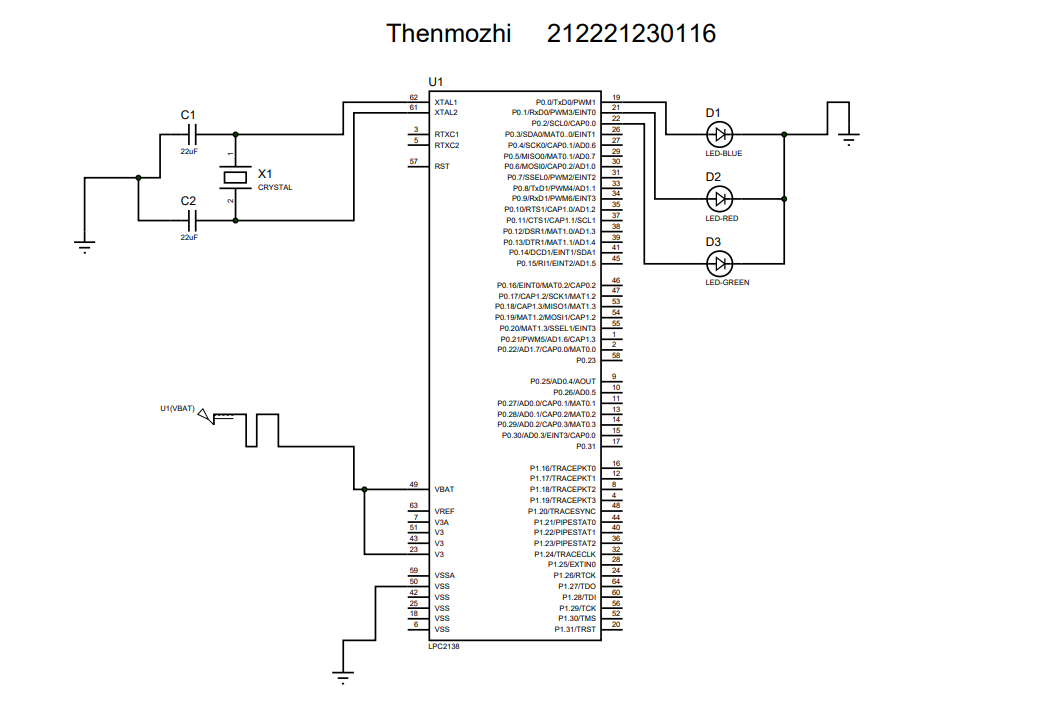
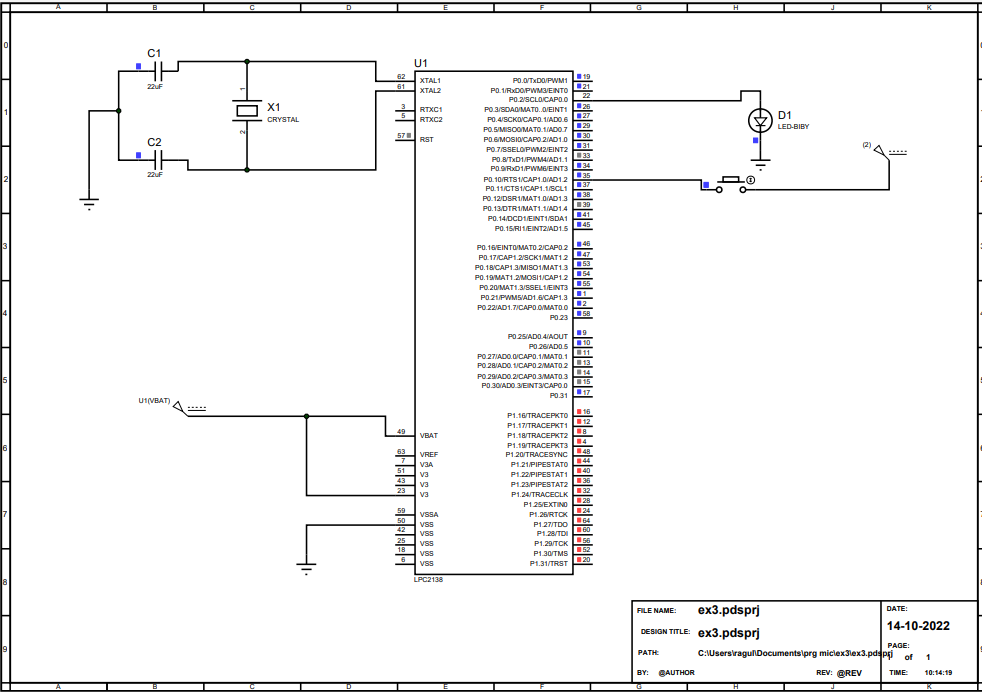
Add files via upload

diff --git a/README.md b/README.md
@@ -1,12 +1,16 @@
-# EXPERIMENT--02-Interfacing-a-Digital-output-LED-to-LPC2148-ARM-7-Microcontroller-
-## Interfacing a Digital output (LED) to LPC2148 ARM 7 Microcontroller 
+# Interfacing-a-Digital-INPUT-push-button-to-LPC2148-ARM-7-Microcontroller-
+Name : Easwar. J
+Roll no 212221230024
+Date of experiment :
 
-## Aim: 
-To Interface a Digital output (LED) to LPC2148 ARM 7 and write a blink code 
-## Components required:
-Proteus ISIS professional suite, Kiel μ vision 5 Development environment :
-## Theory :
+Ex. No. : 3
+Date: 
+ 
+### Aim: To Interface a Digital input (pushbutton ) to LPC2148 ARM 7 and write a code to switch on and of an LED 
+Components required: Proteus ISIS professional suite, Kiel μ vision 5 Development environment 
+### Theory 
 The full form of an ARM is an advanced reduced instruction set computer (RISC) machine, and it is a 32-bit processor architecture expanded by ARM holdings. The applications of an ARM processor include several microcontrollers as well as processors. The architecture of an ARM processor was licensed by many corporations for designing ARM processor-based SoC products and CPUs. This allows the corporations to manufacture their products using ARM architecture. Likewise, all main semiconductor companies will make ARM-based SOCs such as Samsung, Atmel, TI etc.
+
 
 What is an ARM7 Processor?
 ARM7 processor is commonly used in embedded system applications. Also, it is a balance among classic as well as new-Cortex sequence. This processor is tremendous in finding the resources existing on the internet with excellence documentation offered by NXP Semiconductors. It suits completely for an apprentice to obtain in detail hardware & software design implementation.
@@ -31,15 +35,14 @@ The main features of LPC2148 include the following.
 •	The incorporated oscillator on the chip will work by an exterior crystal that ranges from 1 MHz-25 MHz
 •	The modes for power-conserving mainly comprise idle & power down.
 •	For extra power optimization, there are individual enable or disable of peripheral functions and peripheral CLK scaling.
- 
-![image](https://user-images.githubusercontent.com/36288975/189275248-cf9f4001-be11-4773-ba86-517bec062fa5.png)
+ ![image](https://user-images.githubusercontent.com/36288975/193398005-6e1257a9-16ae-43f5-9f09-33bb21ed25b9.png)
 
 
-## Procedure:
+
+### Procedure:
 For creation of project on    Kiel μ vision 5 Development environment (LPC21 XX/48/38)
 1.	Click on the menu Project — New µVision Project creates a new project. Select an empty folder and enter the project name, for example Project1. It is good practice to use a separate folder for each project.
 2.	Next, the dialog Select Device for Target opens.
-![image](https://user-images.githubusercontent.com/36288975/189275266-1d35fbc4-cdb4-49b2-a7ef-4991dc6f546f.png)
 
  
 
@@ -53,109 +56,105 @@ Select the device database. Default is Software Packs. You can have various loca
 
 For creating the simulation environment in Proteus suite 
 Starting New Design
+![image](https://user-images.githubusercontent.com/36288975/193398020-d0963a16-4349-4979-87d7-4c9dc11e2346.png)
+
 Step 1: Open ISIS software and select New design in  File menu
- ![image](https://user-images.githubusercontent.com/36288975/189275283-128a9e18-c1b4-4725-90fc-086361f0b0f1.png)
+ ![image](https://user-images.githubusercontent.com/36288975/193398023-cb8690cf-914a-47e3-8901-c8db3e4cd223.png)
 
 Figure -02 Proteus File Menu
 
  Step 2: A dialogue box appears to save the current design. However, we are creating a new design file so you can click Yes or No depending on the content of the present file. Then a Pop-Up appears asking to select the template. It is similar to selecting the paper size while printing. For now select default or according to the layout size of the circuit.
- ![image](https://user-images.githubusercontent.com/36288975/189275292-833e565c-6583-4667-8aff-376bd8028ee3.png)
+ ![image](https://user-images.githubusercontent.com/36288975/193398027-fd5ae82c-341e-4ed9-aaa4-6bf7574c1a39.png)
 
   Figure -03 Proteus Default Template Select
  
 Step 3:An untitled design sheet will be opened, save it according to your wish,it is better to create a new folder for every layout as it generates other files supporting your design. However,it is not mandatory.
-
-![image](https://user-images.githubusercontent.com/36288975/189275301-c4a11767-fe44-4bc0-8d8a-89022825f3cd.png)
-
+![image](https://user-images.githubusercontent.com/36288975/193398031-03ecd6a5-d9b1-4a60-9dee-009c17a3f5dd.png)
+  
   Figure -04 Proteus Design Sheet
  
 Step 4:To Select components, Click on the component mode button.
- ![image](https://user-images.githubusercontent.com/36288975/189275318-5c6e5521-cf09-441d-912f-7bcebdcb8189.png)
+ ![image](https://user-images.githubusercontent.com/36288975/193398044-5e0d1fe6-1d2b-4b54-9c54-f2904b234343.png)
 
 Figure -05 Component Mode
 Step 5:Click On Pick from Libraries. It shows the categories of components available and a search option to enter the part name.
- 
- ![image](https://user-images.githubusercontent.com/36288975/189275326-3eea00d3-6ea3-40e6-a5b2-97d80db0f1aa.png)
+ ![image](https://user-images.githubusercontent.com/36288975/193398047-f1d5f143-7980-45de-99f2-30b3c4bc04d6.png)
 
   Figure -06 Pick from Libraries
 
 Step 6: Select the components from categories or type the part name in Keywords text box.
  Place all the required components and route the wires i.e, make connections.
 Either selection mode above the component mode or component mode allows to connect through wires. Left click from one terminal to other to make connection. Double right-click on the connected wire or the component to remove connection or the component respectively.
- 
- ![image](https://user-images.githubusercontent.com/36288975/189275342-2365f361-05d0-4fc0-8b44-3934b8b03ea7.png)
+ ![image](https://user-images.githubusercontent.com/36288975/193398050-d6d28800-0c5b-4f5c-a77c-227f3336a125.png)
 
  Figure -07 Component Properties Selection
 Double click on the component to edit the properties of the components and click on Ok.
 Step 8: Select ARM microcontroller form the library – pick part 
-![image](https://user-images.githubusercontent.com/36288975/189275370-90534a4c-8524-4931-9978-291200f0fd2e.png)
-
- 
+ ![image](https://user-images.githubusercontent.com/36288975/193398055-587ebd36-4b82-4eaf-837c-f94c3cf2d071.png)
+  
 Figure -08 LPC2138/48 selection
 Step 7:
 
 After making necessary connections click on debug from 
-![image](https://user-images.githubusercontent.com/36288975/189275403-c1506ad6-7795-40f9-b878-9b83e12263b9.png)
-
  Figure -09 Keywords Textbox
 Example shows selection of push button. Select the components accordingly.
+ ![image](https://user-images.githubusercontent.com/36288975/193398058-2519b9d0-a2ca-421f-957d-7507fc7791b8.png)
+
+ Figure -09 Push Button Selection
+Step 8: The selected components will appear in the devices list. Select the component and place it in the design sheet by left-click., post which select all the associated components as shown in the circuit diagram below 
+![image](https://user-images.githubusercontent.com/36288975/193398065-c12b4984-db8e-40cc-890d-221db1c35b0d.png)
+
  
- Step 8: The selected components will appear in the devices list. Select the component and place it in the design sheet by left-click., post which select all the associated components as shown in the circuit diagram below 
-
- ![image](https://user-images.githubusercontent.com/36288975/189275426-09eb6d0d-aab0-4d8a-8ef8-31288fbfe2a1.png)
-![image](https://user-images.githubusercontent.com/36288975/189275464-1074d010-f106-4615-9959-68ed1a271502.png)
-
 Figure -10 Circuit diagram of LED interface on port -0
 
+![image](https://user-images.githubusercontent.com/36288975/193398071-76df0a57-7e76-4868-9769-c63d220482b8.png)
 
- ![image](https://user-images.githubusercontent.com/36288975/189275481-7466fd00-fe0b-4781-93b8-39b551cdcc36.png)
-
+ 
 Figure -11 Hex file for simulation 
 
 Step 9: Select the hex file from the Kiel program folder and import the program in to the microcontroller as shown in figure 11 ,  debug and if no errors in connections are found, run the VSM simulation to view the output.
 
 
-## Kiel - Program for LED blinking ON  and  OFF (blinking):
-~~~
-#include <lpc214x.h>
-
-void delay_ms(unsigned int count)
+### Kiel - Program  
+```
+#include<LPC214X.h>      //Define LPC2148 Header File
+#define led (1<<2)       //led macro for pin 2 of port0
+#define sw (1<<10)       // sw macro for pin 10 of port0
+int main(void)
 {
-  unsigned int j=0,i=0;
-
-  for(j=0;j<count;j++)
-  {
-    for(i=0;i<3000;i++);
-  }
+   unsigned int x;
+   IO0DIR|= (~sw);       //Configuration P1.24 - P1.31 as input
+   IO0DIR|= led;         //Configuration P1.16 - P1.23 as Output
+   while(1)
+	  {
+	       x=IOPIN0 & sw;  //save status of sw in variable x
+		   if(x==sw)       //if switch open
+		     {
+			    IOCLR0|=led;   //LED OFF
+			 }
+			 else              //if switch close
+			 {
+			    IOSET0|=led;   //LED ON
+			 }
+		 }
 }
 
-int main() 
-{
-
-    PINSEL2 = 0x000000;  //Configure the P1 Pins for GPIO;
-    IO1DIR = 0xffffffff; //Configure the P1 pins as OUTPUT;
-
-  while(1)
-    {
-
-       IO1SET = 0xffffffff;     // Make all the Port pins as high  
-         delay_ms(1000);
+```
 
 
-       IO1CLR = 0xffffffff;     // Make all the Port pins as low  
-         delay_ms(1000);
-    }
-}
-~~~
 
-## Output screen shots :
-### LED blinking OFF:
-![out](1.jpeg)
-### LED blinking ON:
-![out](2.jpeg)
-### Layout:
-![out](3.png)
-## Result :
-Interfacing a digital output with ARM microcontroller is executed.
+### Output screen shots :
+![image](https://user-images.githubusercontent.com/94154683/193458693-fc363ddd-f14c-4a92-886f-b56b779880b4.png)
 
+![image](https://user-images.githubusercontent.com/94154683/193458725-ea0d8010-6302-4ad4-91b2-5011544aeedd.png)
+
+
+### Circuit Diagram:
+
+![image](https://user-images.githubusercontent.com/94154683/193458500-e4b1b72d-43cd-41d1-a21e-fbc5389960f2.png)
+
+
+
+### Result :
+Interfacing a digital output with ARM microcontroller is executed 
 
